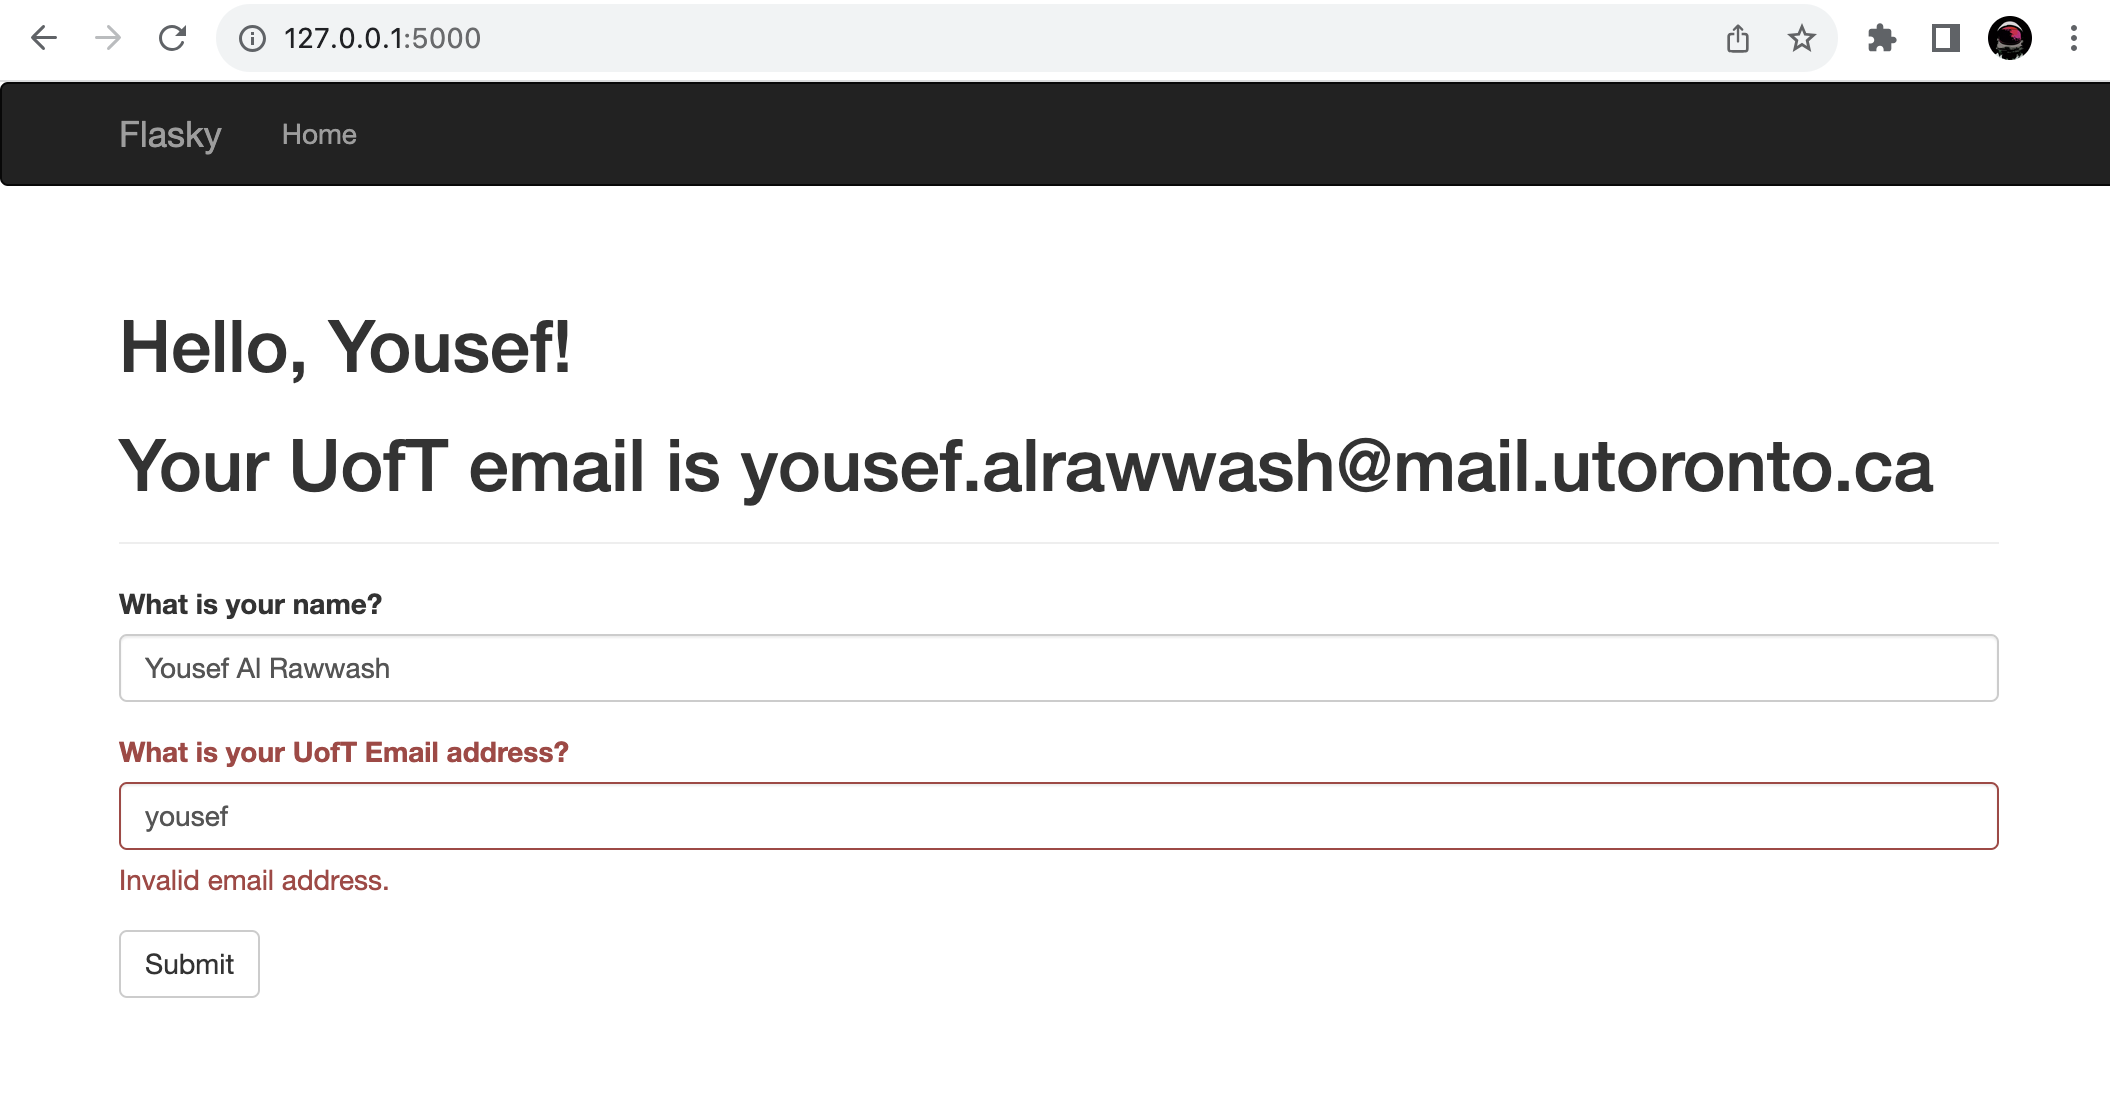
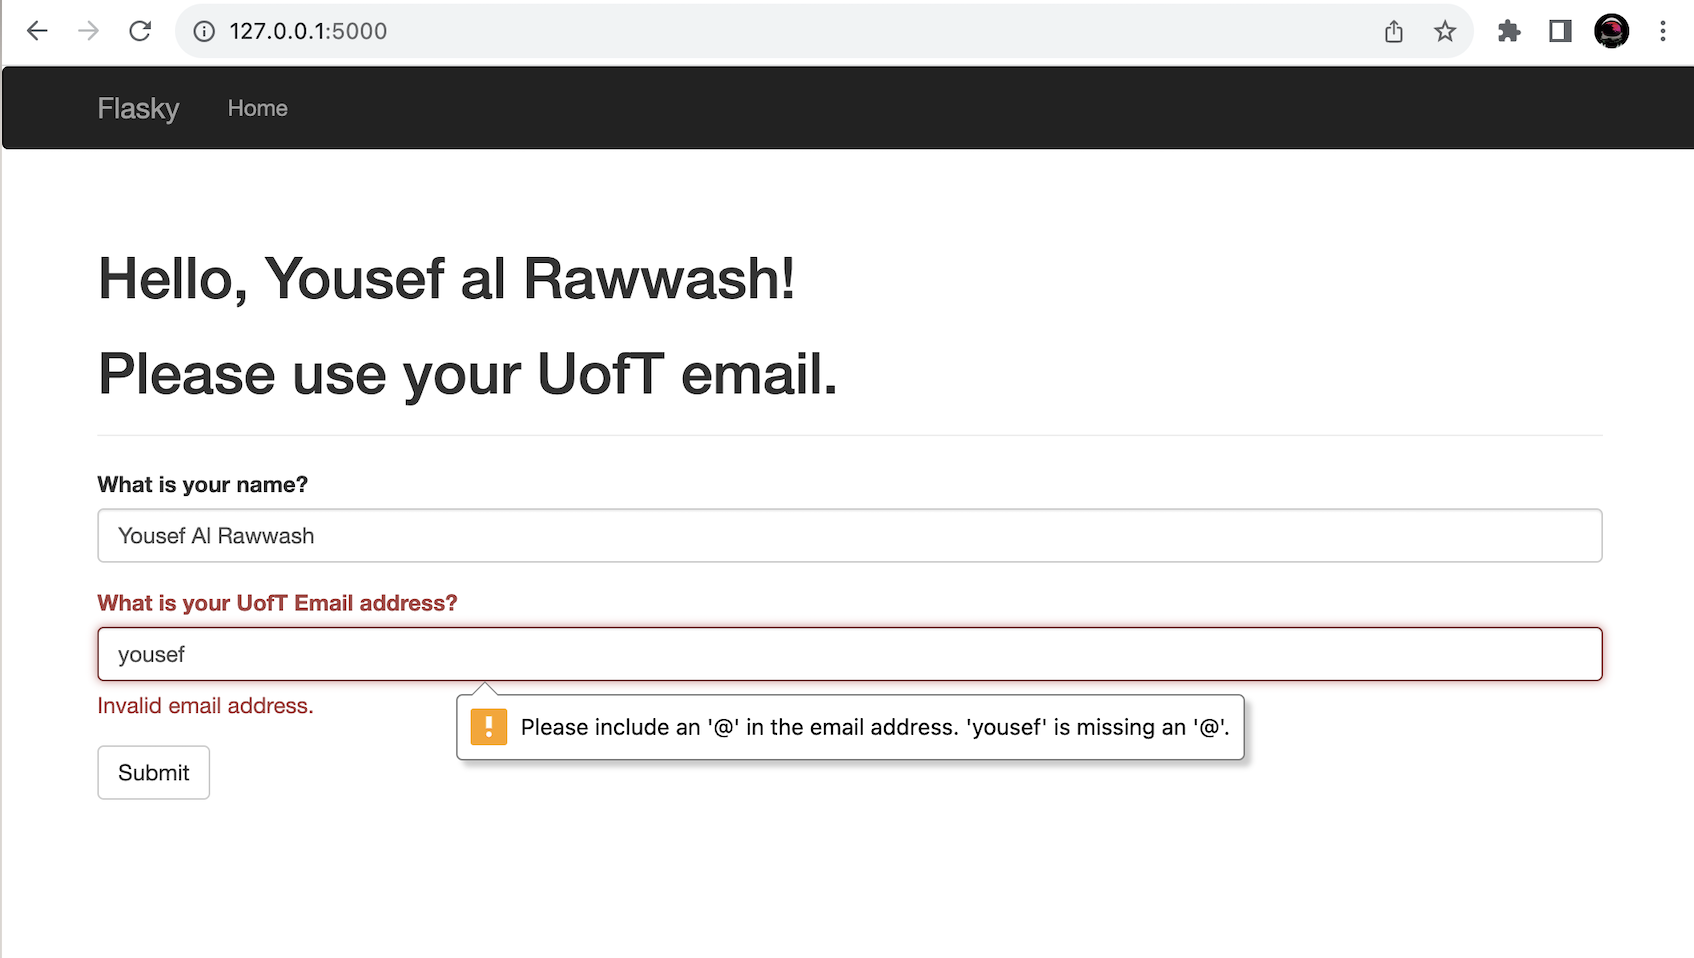
activity 4 finished

diff --git a/hello.py b/hello.py
@@ -3,7 +3,7 @@ from flask_bootstrap import Bootstrap
 from flask_moment import Moment
 from datetime import datetime
 from flask_wtf import FlaskForm
-from wtforms import StringField, SubmitField
+from wtforms import StringField, SubmitField, EmailField
 from wtforms.validators import DataRequired, Email
 
 app = Flask(__name__)
@@ -13,7 +13,7 @@ moment = Moment(app)
 
 class NameForm(FlaskForm):
     name = StringField('What is your name?', validators=[DataRequired()])
-    email = StringField('What is your UofT Email address?', validators=[DataRequired(), Email()])
+    email = EmailField('What is your UofT Email address?', validators=[DataRequired(), Email()])
     submit = SubmitField('Submit')
 
 @app.errorhandler(404)
